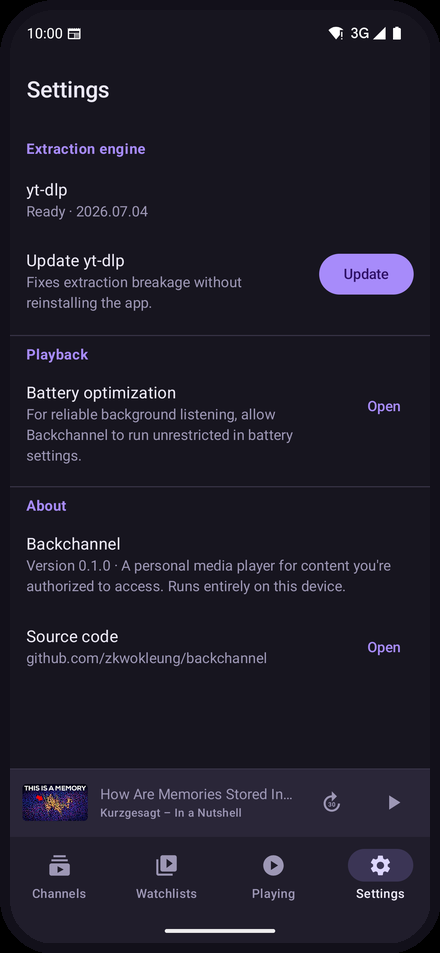
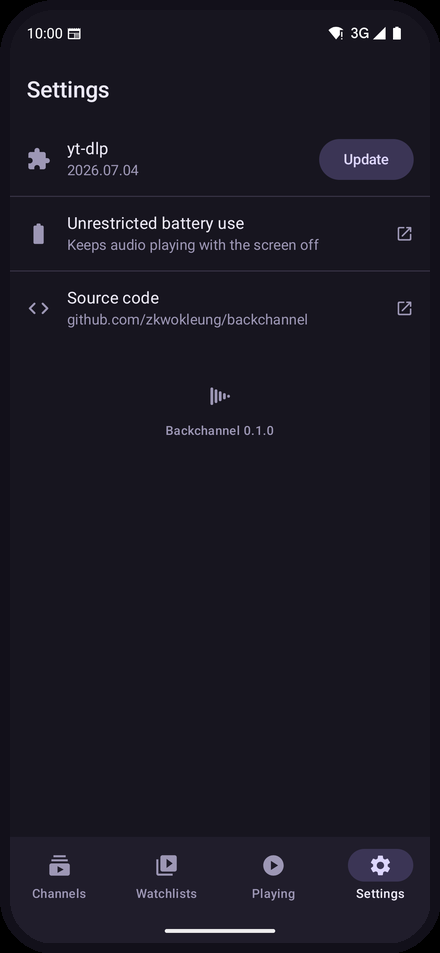
Settings: cut it down to three controls and a footer
The screen was five rows under three headers, but only three of them did
anything — the rest was prose. yt-dlp's version and its Update button were two
separate rows that named the engine twice and spent a sentence explaining what
an Update button does; they are now one row.

Supporting text drops from ~42 words to ~12: rows are named for what you
control rather than for the rationale behind it, and the About paragraph
becomes a footer with the app's own mark, which finally puts the launcher glyph
inside the app. Rows that leave the app are clickable with a trailing link icon
instead of carrying an Open button, and leading icons take over the grouping
the section headers were doing.

Also caps the engine failure line at two lines so a stack trace cannot blow up
the row, and splits SettingsViewModel into its own file to match every other
screen.

diff --git a/android/app/src/main/java/com/zkwokleung/backchannel/ui/settings/SettingsScreen.kt b/android/app/src/main/java/com/zkwokleung/backchannel/ui/settings/SettingsScreen.kt
@@ -3,15 +3,28 @@ package com.zkwokleung.backchannel.ui.settings
 import android.content.Intent
 import android.net.Uri
 import android.provider.Settings
+import androidx.compose.foundation.Image
+import androidx.compose.foundation.clickable
+import androidx.compose.foundation.layout.Arrangement
 import androidx.compose.foundation.layout.Column
+import androidx.compose.foundation.layout.Spacer
 import androidx.compose.foundation.layout.fillMaxSize
+import androidx.compose.foundation.layout.fillMaxWidth
+import androidx.compose.foundation.layout.height
 import androidx.compose.foundation.layout.padding
+import androidx.compose.foundation.layout.size
 import androidx.compose.foundation.rememberScrollState
 import androidx.compose.foundation.verticalScroll
-import androidx.compose.material3.Button
+import androidx.compose.material.icons.Icons
+import androidx.compose.material.icons.automirrored.rounded.OpenInNew
+import androidx.compose.material.icons.rounded.BatteryFull
+import androidx.compose.material.icons.rounded.Code
+import androidx.compose.material.icons.rounded.Extension
 import androidx.compose.material3.CircularProgressIndicator
 import androidx.compose.material3.ExperimentalMaterial3Api
+import androidx.compose.material3.FilledTonalButton
 import androidx.compose.material3.HorizontalDivider
+import androidx.compose.material3.Icon
 import androidx.compose.material3.ListItem
 import androidx.compose.material3.MaterialTheme
 import androidx.compose.material3.Scaffold
@@ -25,53 +38,29 @@ import androidx.compose.runtime.LaunchedEffect
 import androidx.compose.runtime.collectAsState
 import androidx.compose.runtime.getValue
 import androidx.compose.runtime.remember
+import androidx.compose.ui.Alignment
 import androidx.compose.ui.Modifier
+import androidx.compose.ui.graphics.ColorFilter
 import androidx.compose.ui.platform.LocalContext
+import androidx.compose.ui.res.painterResource
+import androidx.compose.ui.text.style.TextOverflow
 import androidx.compose.ui.unit.dp
-import androidx.lifecycle.ViewModel
-import androidx.lifecycle.viewModelScope
 import com.zkwokleung.backchannel.BuildConfig
+import com.zkwokleung.backchannel.R
 import com.zkwokleung.backchannel.engine.YtdlpEngine
 import com.zkwokleung.backchannel.ui.common.appViewModel
-import kotlinx.coroutines.flow.MutableStateFlow
-import kotlinx.coroutines.flow.StateFlow
-import kotlinx.coroutines.flow.asStateFlow
-import kotlinx.coroutines.launch
+import com.zkwokleung.backchannel.ui.theme.Spacing
 
-data class UpdateUiState(
-    val inProgress: Boolean = false,
-    val message: String? = null,
-)
-
-class SettingsViewModel(private val engine: YtdlpEngine) : ViewModel() {
-
-    val initState: StateFlow<YtdlpEngine.InitState> = engine.initState
-
-    private val _updateState = MutableStateFlow(UpdateUiState())
-    val updateState: StateFlow<UpdateUiState> = _updateState.asStateFlow()
-
-    fun retryInit() {
-        viewModelScope.launch { engine.initialize() }
-    }
-
-    fun updateYtdlp() {
-        if (_updateState.value.inProgress) return
-        _updateState.value = UpdateUiState(inProgress = true)
-        viewModelScope.launch {
-            _updateState.value = try {
-                val version = engine.update()
-                UpdateUiState(message = "yt-dlp is up to date (${version ?: "unknown"})")
-            } catch (t: Throwable) {
-                UpdateUiState(message = t.message ?: "Update failed")
-            }
-        }
-    }
-
-    fun consumeMessage() {
-        _updateState.value = _updateState.value.copy(message = null)
-    }
-}
-
+/**
+ * Three controls and a footer.
+ *
+ * Deliberately has no section headers: with one row per domain they label rather than group, and
+ * leading icons carry the same information in less space. Add headers back when a section holds
+ * two or more rows.
+ *
+ * Explanations live where they are needed — in the error messages that tell you to update yt-dlp,
+ * and in docs/USAGE.md — not as permanent paragraphs under every row.
+ */
 @OptIn(ExperimentalMaterial3Api::class)
 @Composable
 fun SettingsScreen() {
@@ -98,118 +87,147 @@ fun SettingsScreen() {
                 .padding(padding)
                 .verticalScroll(rememberScrollState()),
         ) {
-            Text(
-                "Extraction engine",
-                style = MaterialTheme.typography.titleSmall,
-                color = MaterialTheme.colorScheme.primary,
-                modifier = Modifier.padding(start = 16.dp, top = 16.dp, bottom = 4.dp),
-            )
-            ListItem(
-                headlineContent = { Text("yt-dlp") },
-                supportingContent = {
-                    Text(
-                        when (val s = initState) {
-                            is YtdlpEngine.InitState.Ready -> "Ready · ${s.ytdlpVersion ?: "unknown version"}"
-                            is YtdlpEngine.InitState.Initializing -> "Starting up…"
-                            is YtdlpEngine.InitState.Failed -> "Failed: ${s.message}"
-                            is YtdlpEngine.InitState.NotStarted -> "Not started"
-                        }
-                    )
-                },
-                trailingContent = {
-                    when (initState) {
-                        is YtdlpEngine.InitState.Initializing ->
-                            CircularProgressIndicator(Modifier.padding(4.dp))
-                        is YtdlpEngine.InitState.Failed ->
-                            TextButton(onClick = viewModel::retryInit) { Text("Retry") }
-                        else -> {}
-                    }
-                },
-            )
-            ListItem(
-                headlineContent = { Text("Update yt-dlp") },
-                supportingContent = {
-                    Text("Fixes extraction breakage without reinstalling the app.")
-                },
-                trailingContent = {
-                    Button(
-                        onClick = viewModel::updateYtdlp,
-                        enabled = !updateState.inProgress &&
-                            initState is YtdlpEngine.InitState.Ready,
-                    ) {
-                        if (updateState.inProgress) {
-                            CircularProgressIndicator(Modifier.padding(2.dp), strokeWidth = 2.dp)
-                        } else {
-                            Text("Update")
-                        }
-                    }
-                },
+            EngineRow(
+                initState = initState,
+                updating = updateState.inProgress,
+                onUpdate = viewModel::updateYtdlp,
+                onRetry = viewModel::retryInit,
             )
 
-            HorizontalDivider(Modifier.padding(vertical = 8.dp))
+            HorizontalDivider(color = MaterialTheme.colorScheme.outlineVariant)
 
-            Text(
-                "Playback",
-                style = MaterialTheme.typography.titleSmall,
-                color = MaterialTheme.colorScheme.primary,
-                modifier = Modifier.padding(start = 16.dp, bottom = 4.dp),
-            )
-            ListItem(
-                headlineContent = { Text("Battery optimization") },
-                supportingContent = {
-                    Text(
-                        "For reliable background listening, allow Backchannel to run " +
-                            "unrestricted in battery settings."
-                    )
-                },
-                trailingContent = {
-                    TextButton(onClick = {
-                        runCatching {
-                            context.startActivity(
-                                Intent(
-                                    Settings.ACTION_IGNORE_BATTERY_OPTIMIZATION_SETTINGS
-                                ).addFlags(Intent.FLAG_ACTIVITY_NEW_TASK)
-                            )
-                        }
-                    }) { Text("Open") }
-                },
-            )
-
-            HorizontalDivider(Modifier.padding(vertical = 8.dp))
-
-            Text(
-                "About",
-                style = MaterialTheme.typography.titleSmall,
-                color = MaterialTheme.colorScheme.primary,
-                modifier = Modifier.padding(start = 16.dp, bottom = 4.dp),
-            )
-            ListItem(
-                headlineContent = { Text("Backchannel") },
-                supportingContent = {
-                    Text(
-                        "Version ${BuildConfig.VERSION_NAME} · " +
-                            "A personal media player for content you're authorized to access. " +
-                            "Runs entirely on this device."
+            // The whole row is the target — a row that leaves the app does not need a button
+            // bolted onto its end.
+            LinkRow(
+                icon = Icons.Rounded.BatteryFull,
+                title = "Unrestricted battery use",
+                subtitle = "Keeps audio playing with the screen off",
+                onClick = {
+                    context.openSafely(
+                        Intent(Settings.ACTION_IGNORE_BATTERY_OPTIMIZATION_SETTINGS)
                     )
                 },
             )
-            ListItem(
-                headlineContent = { Text("Source code") },
-                supportingContent = { Text("github.com/zkwokleung/backchannel") },
-                modifier = Modifier,
-                trailingContent = {
-                    TextButton(onClick = {
-                        runCatching {
-                            context.startActivity(
-                                Intent(
-                                    Intent.ACTION_VIEW,
-                                    Uri.parse("https://github.com/zkwokleung/backchannel"),
-                                ).addFlags(Intent.FLAG_ACTIVITY_NEW_TASK)
-                            )
-                        }
-                    }) { Text("Open") }
+
+            HorizontalDivider(color = MaterialTheme.colorScheme.outlineVariant)
+
+            LinkRow(
+                icon = Icons.Rounded.Code,
+                title = "Source code",
+                subtitle = "github.com/zkwokleung/backchannel",
+                onClick = {
+                    context.openSafely(
+                        Intent(Intent.ACTION_VIEW, Uri.parse(SOURCE_URL))
+                    )
                 },
             )
+
+            AppFooter()
         }
     }
+}
+
+/**
+ * yt-dlp's version and its update action in one row.
+ *
+ * These used to be two rows — "yt-dlp" and "Update yt-dlp" — which said the engine's name twice
+ * and spent a sentence explaining what an Update button does.
+ */
+@Composable
+private fun EngineRow(
+    initState: YtdlpEngine.InitState,
+    updating: Boolean,
+    onUpdate: () -> Unit,
+    onRetry: () -> Unit,
+) {
+    val status = when (initState) {
+        is YtdlpEngine.InitState.Ready -> initState.ytdlpVersion ?: "Ready"
+        is YtdlpEngine.InitState.Initializing -> "Starting…"
+        // The real error goes to the snackbar; an engine stack trace does not belong in a row.
+        is YtdlpEngine.InitState.Failed -> "Couldn't start"
+        is YtdlpEngine.InitState.NotStarted -> "Not started"
+    }
+
+    ListItem(
+        leadingContent = {
+            Icon(
+                Icons.Rounded.Extension,
+                contentDescription = null,
+                tint = MaterialTheme.colorScheme.onSurfaceVariant,
+            )
+        },
+        headlineContent = { Text("yt-dlp") },
+        supportingContent = {
+            Text(status, maxLines = 2, overflow = TextOverflow.Ellipsis)
+        },
+        trailingContent = {
+            when {
+                updating -> CircularProgressIndicator(Modifier.size(22.dp), strokeWidth = 2.dp)
+
+                initState is YtdlpEngine.InitState.Failed ->
+                    TextButton(onClick = onRetry) { Text("Retry") }
+
+                initState is YtdlpEngine.InitState.Ready ->
+                    FilledTonalButton(onClick = onUpdate) { Text("Update") }
+
+                else -> {}
+            }
+        },
+    )
+}
+
+@Composable
+private fun LinkRow(
+    icon: androidx.compose.ui.graphics.vector.ImageVector,
+    title: String,
+    subtitle: String,
+    onClick: () -> Unit,
+) {
+    ListItem(
+        modifier = Modifier.clickable(onClick = onClick, onClickLabel = title),
+        leadingContent = {
+            Icon(icon, contentDescription = null, tint = MaterialTheme.colorScheme.onSurfaceVariant)
+        },
+        headlineContent = { Text(title) },
+        supportingContent = { Text(subtitle) },
+        trailingContent = {
+            Icon(
+                Icons.AutoMirrored.Rounded.OpenInNew,
+                contentDescription = null,
+                tint = MaterialTheme.colorScheme.onSurfaceVariant,
+                modifier = Modifier.size(18.dp),
+            )
+        },
+    )
+}
+
+/** Ends the screen with the app's own mark instead of a paragraph about it. */
+@Composable
+private fun AppFooter() {
+    Column(
+        modifier = Modifier
+            .fillMaxWidth()
+            .padding(top = Spacing.xxl, bottom = Spacing.xl),
+        horizontalAlignment = Alignment.CenterHorizontally,
+        verticalArrangement = Arrangement.Center,
+    ) {
+        Image(
+            painter = painterResource(R.drawable.ic_brand_mark),
+            contentDescription = null,
+            colorFilter = ColorFilter.tint(MaterialTheme.colorScheme.onSurfaceVariant),
+            modifier = Modifier.size(36.dp),
+        )
+        Spacer(Modifier.height(Spacing.sm))
+        Text(
+            "Backchannel ${BuildConfig.VERSION_NAME}",
+            style = MaterialTheme.typography.labelMedium,
+            color = MaterialTheme.colorScheme.onSurfaceVariant,
+        )
+    }
+}
+
+private const val SOURCE_URL = "https://github.com/zkwokleung/backchannel"
+
+private fun android.content.Context.openSafely(intent: Intent) {
+    runCatching { startActivity(intent.addFlags(Intent.FLAG_ACTIVITY_NEW_TASK)) }
 }

diff --git a/android/app/src/main/java/com/zkwokleung/backchannel/ui/settings/SettingsViewModel.kt b/android/app/src/main/java/com/zkwokleung/backchannel/ui/settings/SettingsViewModel.kt
@@ -1,0 +1,43 @@
+package com.zkwokleung.backchannel.ui.settings
+
+import androidx.lifecycle.ViewModel
+import androidx.lifecycle.viewModelScope
+import com.zkwokleung.backchannel.engine.YtdlpEngine
+import kotlinx.coroutines.flow.MutableStateFlow
+import kotlinx.coroutines.flow.StateFlow
+import kotlinx.coroutines.flow.asStateFlow
+import kotlinx.coroutines.launch
+
+data class UpdateUiState(
+    val inProgress: Boolean = false,
+    val message: String? = null,
+)
+
+class SettingsViewModel(private val engine: YtdlpEngine) : ViewModel() {
+
+    val initState: StateFlow<YtdlpEngine.InitState> = engine.initState
+
+    private val _updateState = MutableStateFlow(UpdateUiState())
+    val updateState: StateFlow<UpdateUiState> = _updateState.asStateFlow()
+
+    fun retryInit() {
+        viewModelScope.launch { engine.initialize() }
+    }
+
+    fun updateYtdlp() {
+        if (_updateState.value.inProgress) return
+        _updateState.value = UpdateUiState(inProgress = true)
+        viewModelScope.launch {
+            _updateState.value = try {
+                val version = engine.update()
+                UpdateUiState(message = "yt-dlp updated to ${version ?: "the latest version"}")
+            } catch (t: Throwable) {
+                UpdateUiState(message = t.message ?: "Update failed")
+            }
+        }
+    }
+
+    fun consumeMessage() {
+        _updateState.value = _updateState.value.copy(message = null)
+    }
+}
